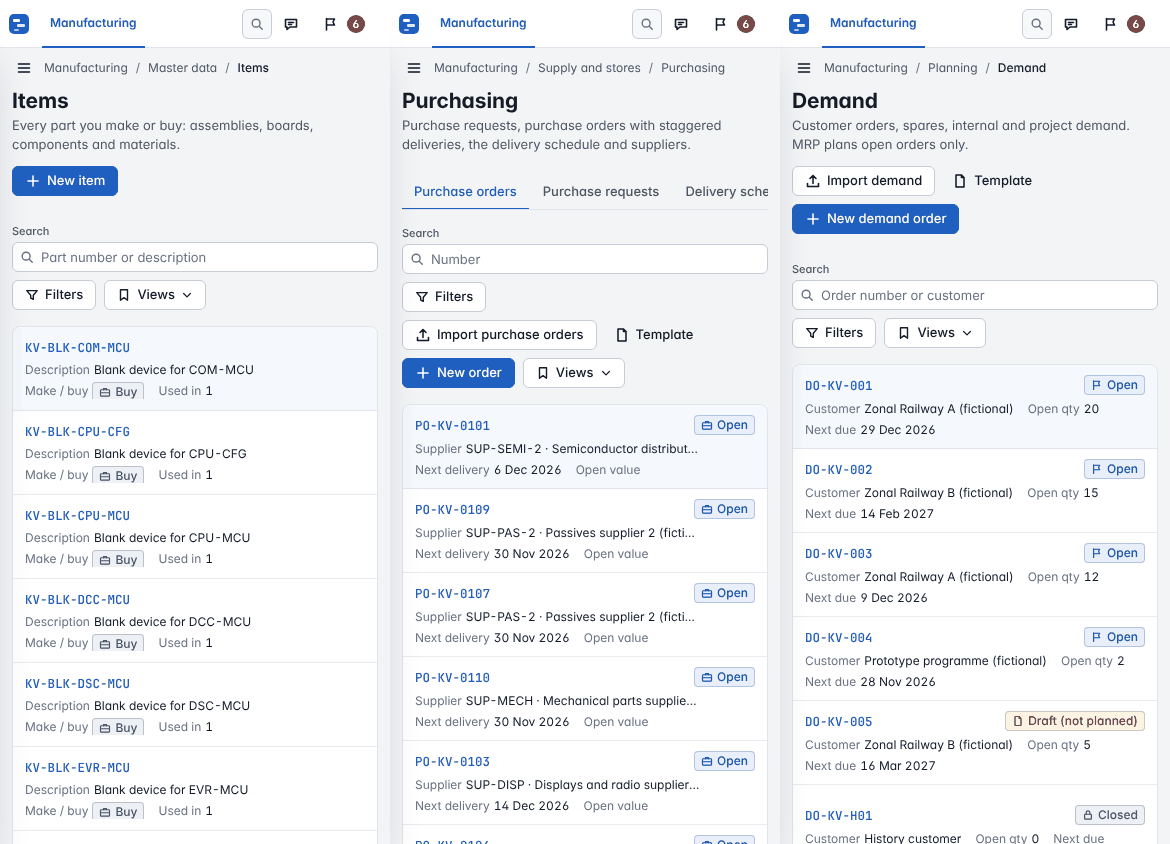
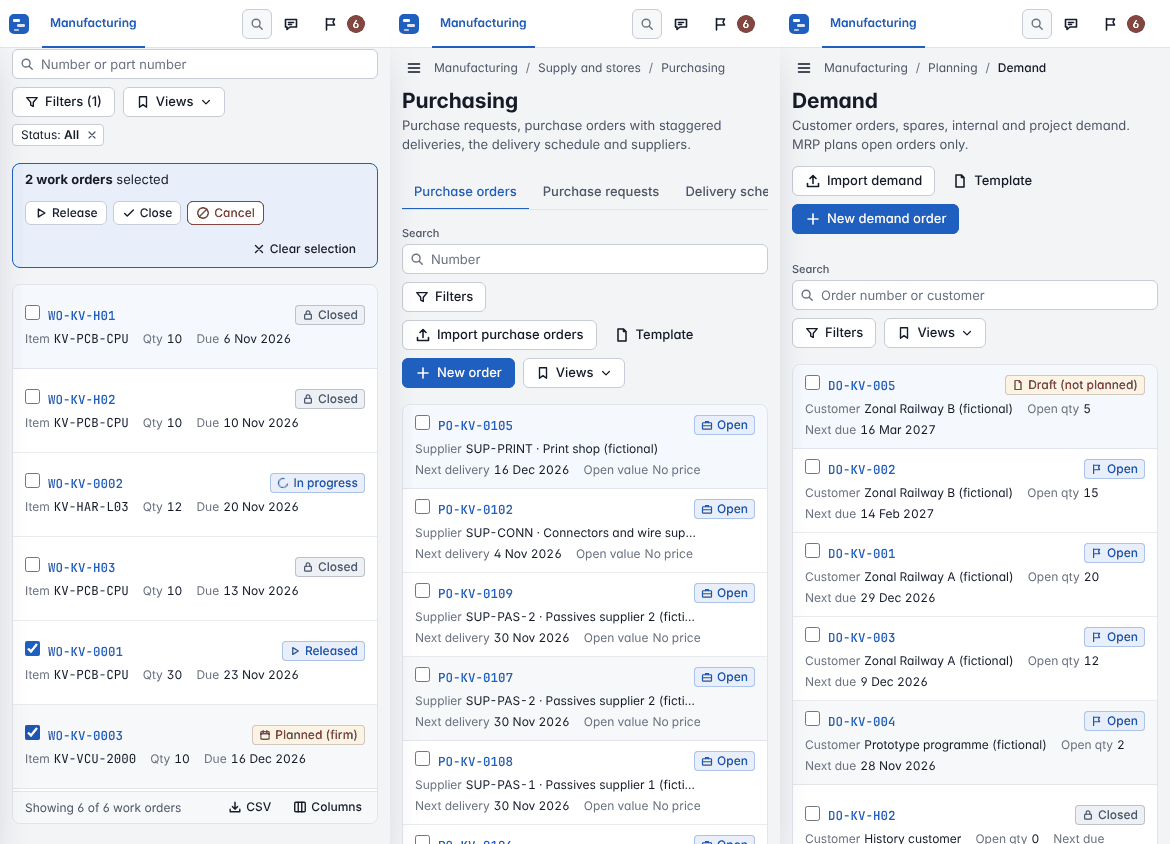
WIP: UX round 3 complete (overtime empty state fix, screenshots, standard doc)
Claude-Session: https://claude.ai/code/session_01KsWN5mt2hRvC78ptenupnK

diff --git a/frontend/src/mfg/pages/schedule/ApsOvertimeTab.tsx b/frontend/src/mfg/pages/schedule/ApsOvertimeTab.tsx
@@ -93,7 +93,7 @@ export function ApsOvertimeTab() {
         </Banner>
       ) : null}
 
-      {opened.length || policy === "allow" ? (
+      {ot.data && (opened.length || policy === "allow") ? (
         <section className="card" data-testid="overtime-opened">
           <div className="card-header">
             <h3>Extra shifts {policy === "allow" ? "opened by the scheduler" : "in this plan"} ({opened.length})</h3>
@@ -102,7 +102,7 @@ export function ApsOvertimeTab() {
         </section>
       ) : null}
 
-      {policy === "suggest" ? (
+      {policy === "suggest" && ot.data ? (
         <section className="card" data-testid="overtime-suggested">
           <div className="card-header">
             <h3>Suggested extra shifts ({suggested.length})</h3>

diff --git a/docs/UX-STANDARD.md b/docs/UX-STANDARD.md
@@ -113,17 +113,23 @@ No new npm packages. Everything above is built on React, react-router and CSS.
 
 ## 9. Remaining gaps (prioritised)
 
-1. Saved views and column layouts are per device; move them to a server-side user-preferences endpoint.
-2. Bulk selection with bulk actions: no list has a bulk API today (e.g. firm/release several planned orders);
-   add row checkboxes to `VirtualTable` when such endpoints exist.
-3. Server-side sorting exists only where the API offers sort keys (items, work orders, purchase documents,
-   MRP items/planned orders); demand, lots, transactions need API sort keys before headers become sortable.
-4. Convert the remaining ~15 legacy filter toolbars and ~40 page headers to `FilterBar`/`PageHeader`
-   components (they already inherit the compact styling through `.mfg-filters` / `.page-header`).
-5. Gantt: bar-level keyboard navigation (`[` `]`) and announcements are in; keyboard move/resize of bars
-   (today drag only) is not.
-6. Unsaved-changes guard on work order, purchase document and plan-settings editors (they lack a dirty flag).
-7. Page copy outside the shared components is not yet in `lib/i18n.ts`.
+Done in round 3: server-side preferences (tables, saved views, display) with local cache and one-time
+migration (`lib/serverPrefs.ts`, one index request per load); row selection and bulk actions on work orders,
+purchase requests/orders and demand (`mfg/components/BulkActions.tsx`); sorting on demand, lots and
+transactions; `PageHeader`/`FilterBar` on all list and area pages incl. finance, landing, intake, orgs and
+account; Gantt keyboard move (Alt+Left/Right by zoom step, Shift+Alt+Up/Down to another line) through the
+drag preview; unsaved-changes guard on work order, purchase document and plan editors; shared `DateInput`.
+
+1. Legacy `table.table` grids (audit trail, MRP runs, KPI by line, recalls, transfers) are not yet
+   `VirtualTable`s, so they lack column settings, phone cards and sorting; on phones they wrap tightly.
+2. Gantt keyboard resize (change duration) is not offered: the edit API moves operations, it has no
+   duration edit.
+3. The trace and dispatch toolbars stay plain forms (submit-based search, print layout); styled alike.
+4. Record headers (work order, item, purchase document, demand order, plan workspace, finance result) use the
+   `ws-header` record anatomy rather than `PageHeader` by design (editable title, status chips).
+5. Page copy outside the shared components is not yet in `lib/i18n.ts`.
+6. Known failing e2e unrelated to UX: `mfg-m2-mrp` "pilot journey" expects "Release now" planned orders that
+   the current sample/date produces none of (fails identically on the original code).
 
 ## 10. Backend support (API contract for the UI)
 
